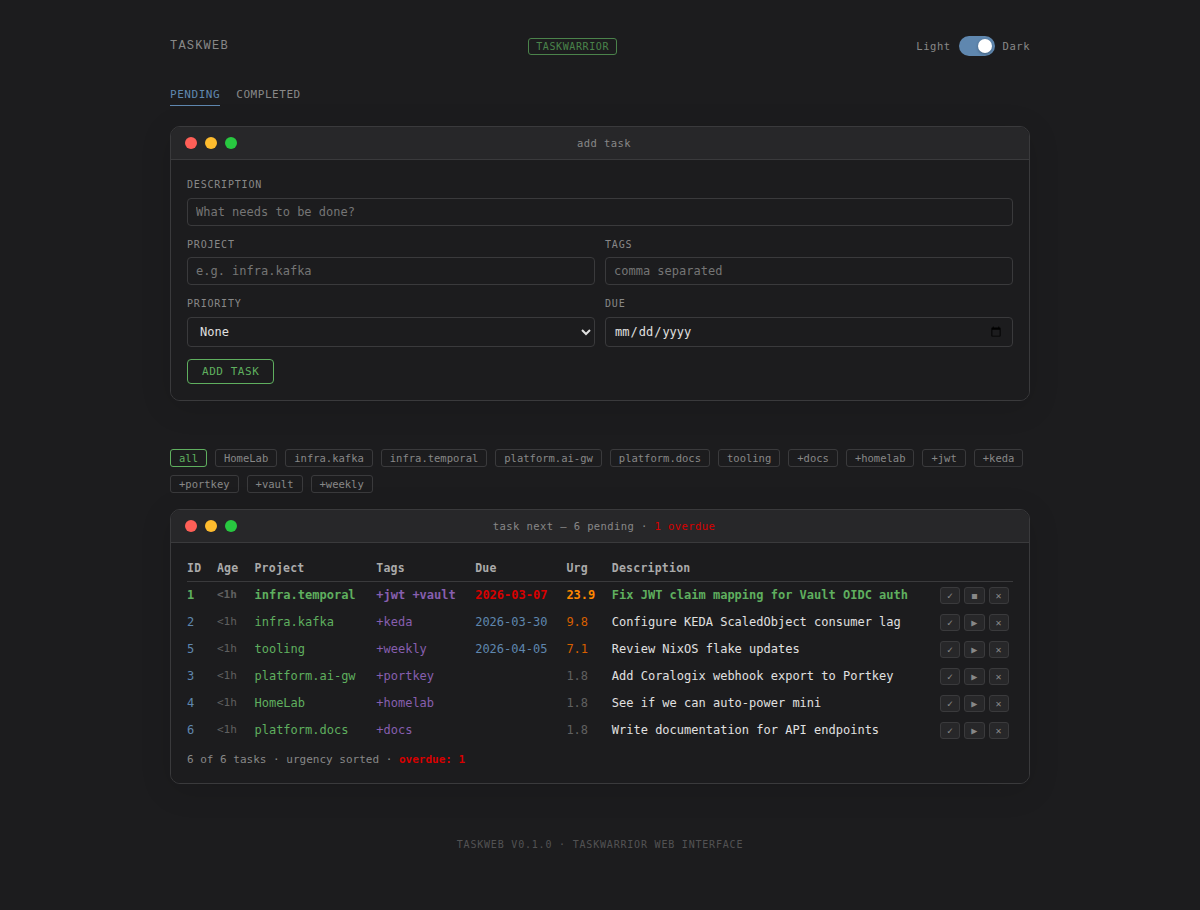
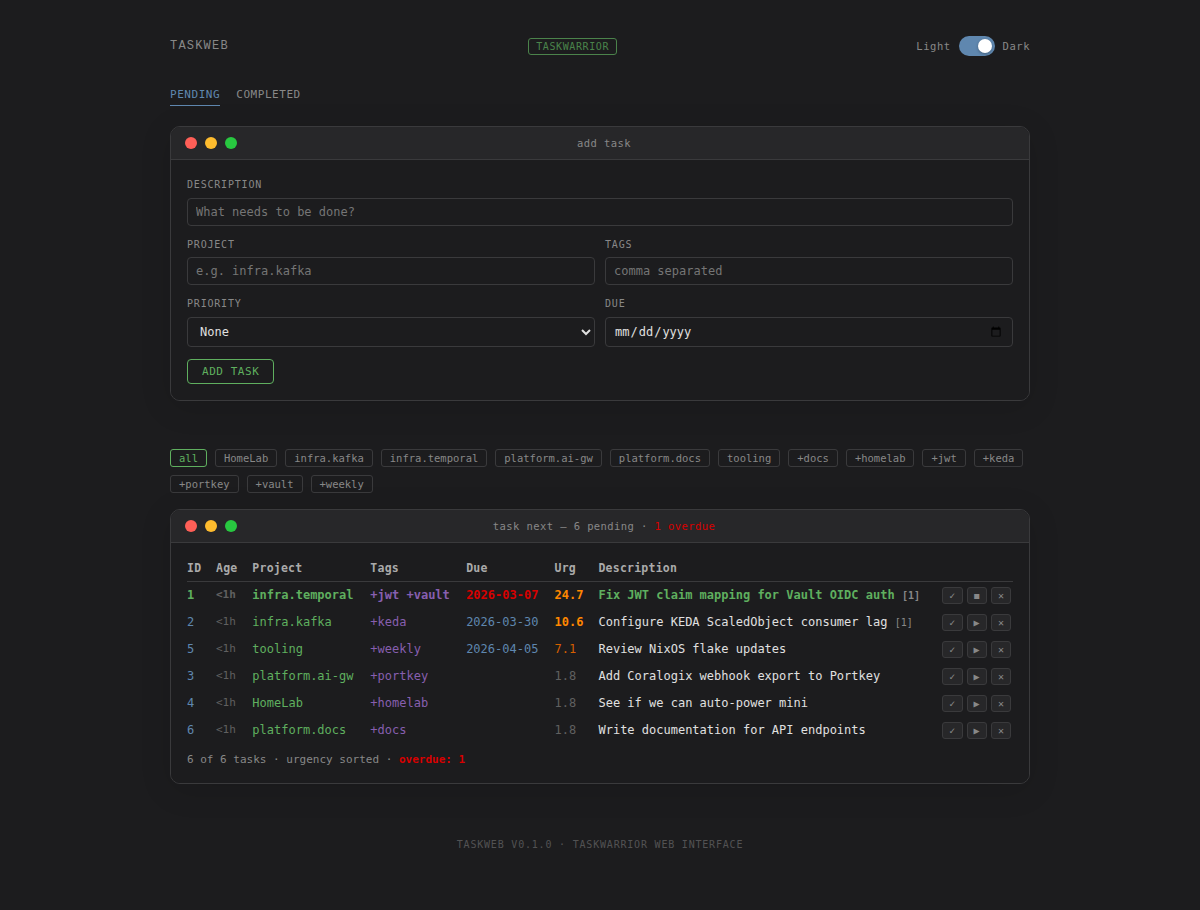
Make annotations click-to-reveal and theme auto-follow system
Annotations are hidden by default with a [N] badge, revealed on
click. Theme now always follows system preference on load instead
of persisting manual toggle to localStorage.

https://claude.ai/code/session_012mGDfxuuAfjA45JJnFLQ5S

Changed region(s): [[0.185, 0.6154, 0.7708, 0.8308], [0.8017, 0.6462, 0.8325, 0.6769]]

diff --git a/taskweb/templates/index.html b/taskweb/templates/index.html
@@ -97,7 +97,18 @@
           </td>
           <td class="{% if task.is_overdue %}due{% elif task.due %}due-ok{% endif %}">{{ task.due_formatted }}</td>
           <td class="{% if task.urgency >= 10 %}urg-hi{% elif task.urgency >= 4 %}urg{% else %}urg-lo{% endif %}">{{ "%.1f"|format(task.urgency) }}</td>
-          <td class="desc">{{ task.description }}{% if task.is_recurring %} ↻{% endif %}</td>
+          <td class="desc">
+            <span class="desc-text{% if task.annotations %} has-annotations{% endif %}" onclick="this.parentElement.querySelector('.annotations')?.classList.toggle('show')">
+              {{ task.description }}{% if task.is_recurring %} ↻{% endif %}{% if task.annotations %} <span class="annotation-count">[{{ task.annotations|length }}]</span>{% endif %}
+            </span>
+            {% if task.annotations %}
+            <div class="annotations">
+              {% for ann in task.annotations %}
+              <div class="annotation">{{ ann.description }}</div>
+              {% endfor %}
+            </div>
+            {% endif %}
+          </td>
           <td>
             <div class="actions">
               <form method="POST" action="{{ url_for('done', task_id=task.id) }}">

diff --git a/taskweb/static/app.js b/taskweb/static/app.js
@@ -8,22 +8,16 @@ function apply(dark) {
   toggle.checked = dark;
 }
 
-// Initialize from saved preference or system
-const saved = localStorage.getItem('taskweb-theme');
-if (saved) {
-  apply(saved === 'dark');
-} else {
-  apply(mq.matches);
-}
+// Always follow system preference on load (no localStorage persistence)
+// The toggle is a session-only override
+apply(mq.matches);
 
-mq.addEventListener('change', e => {
-  if (!localStorage.getItem('taskweb-theme')) apply(e.matches);
-});
+// Auto-follow system preference changes
+mq.addEventListener('change', e => apply(e.matches));
 
+// Manual toggle overrides for current session
 toggle.addEventListener('change', () => {
-  const dark = toggle.checked;
-  root.setAttribute('data-theme', dark ? 'dark' : 'light');
-  localStorage.setItem('taskweb-theme', dark ? 'dark' : 'light');
+  root.setAttribute('data-theme', toggle.checked ? 'dark' : 'light');
 });
 
 // Auto-dismiss flash messages

diff --git a/taskweb/static/style.css b/taskweb/static/style.css
@@ -234,6 +234,30 @@ tr.active-row .id { color: var(--tw-act) }
 .block { color: var(--tw-block) }
 .tw-footer { margin-top: 6px; color: var(--tw-cnt); font-size: 11px }
 
+/* Annotations */
+.has-annotations {
+  cursor: pointer;
+}
+.annotation-count {
+  color: var(--dim);
+  font-size: 10px;
+}
+.annotations {
+  display: none;
+  margin-top: 4px;
+}
+.annotations.show {
+  display: block;
+}
+.annotation {
+  color: var(--dim);
+  font-size: 10.5px;
+  font-style: italic;
+  padding-left: 8px;
+  border-left: 2px solid var(--border);
+  margin-top: 2px;
+}
+
 /* Actions */
 .actions {
   display: flex;
